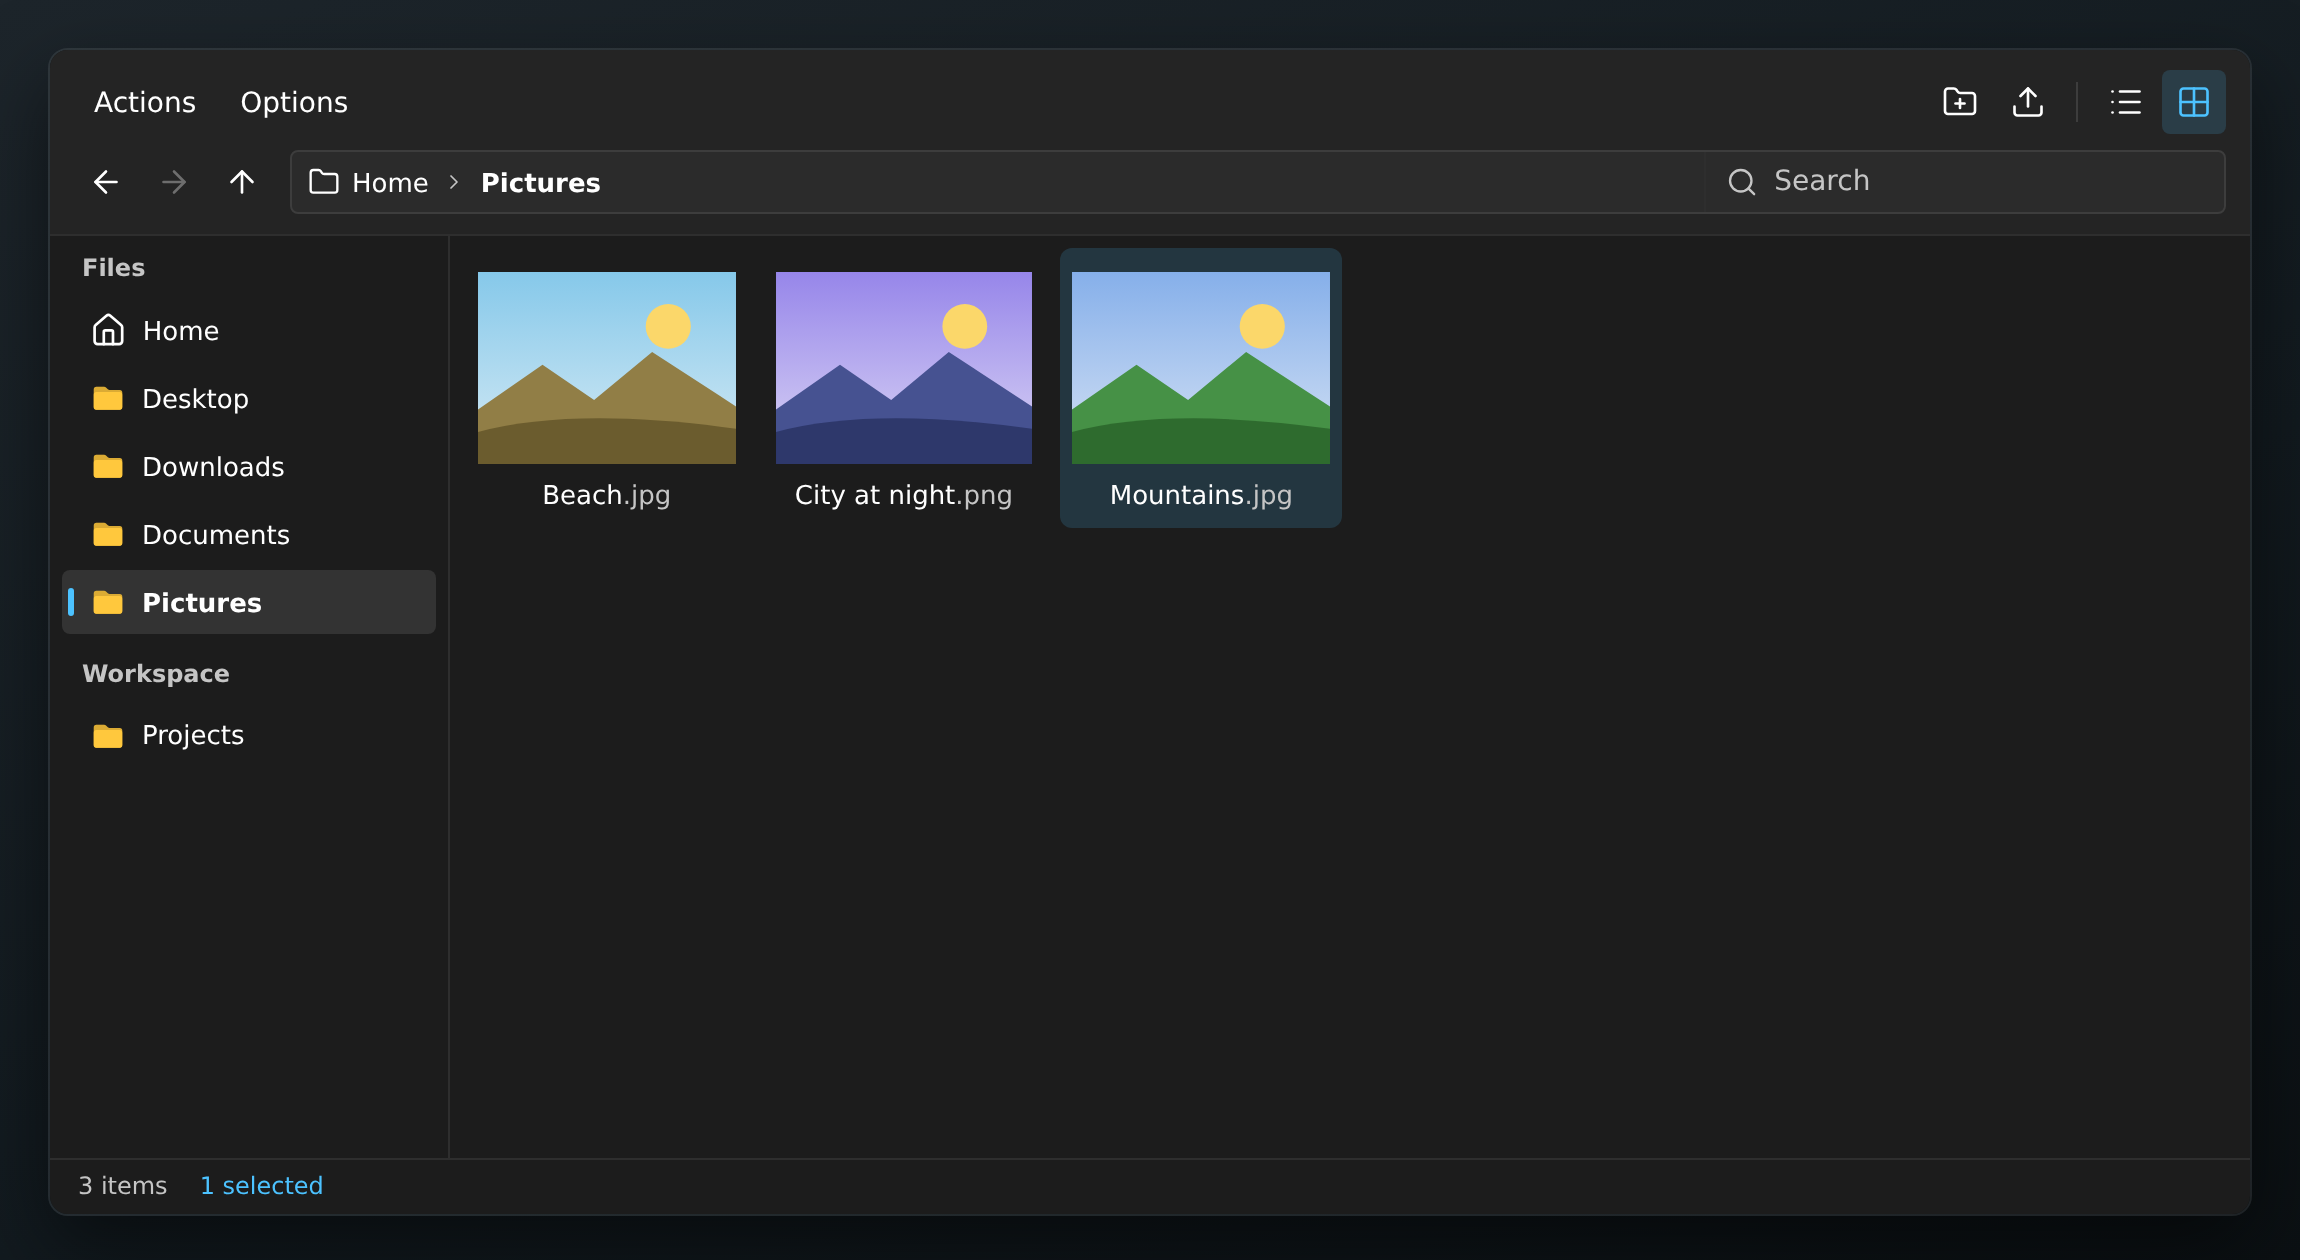
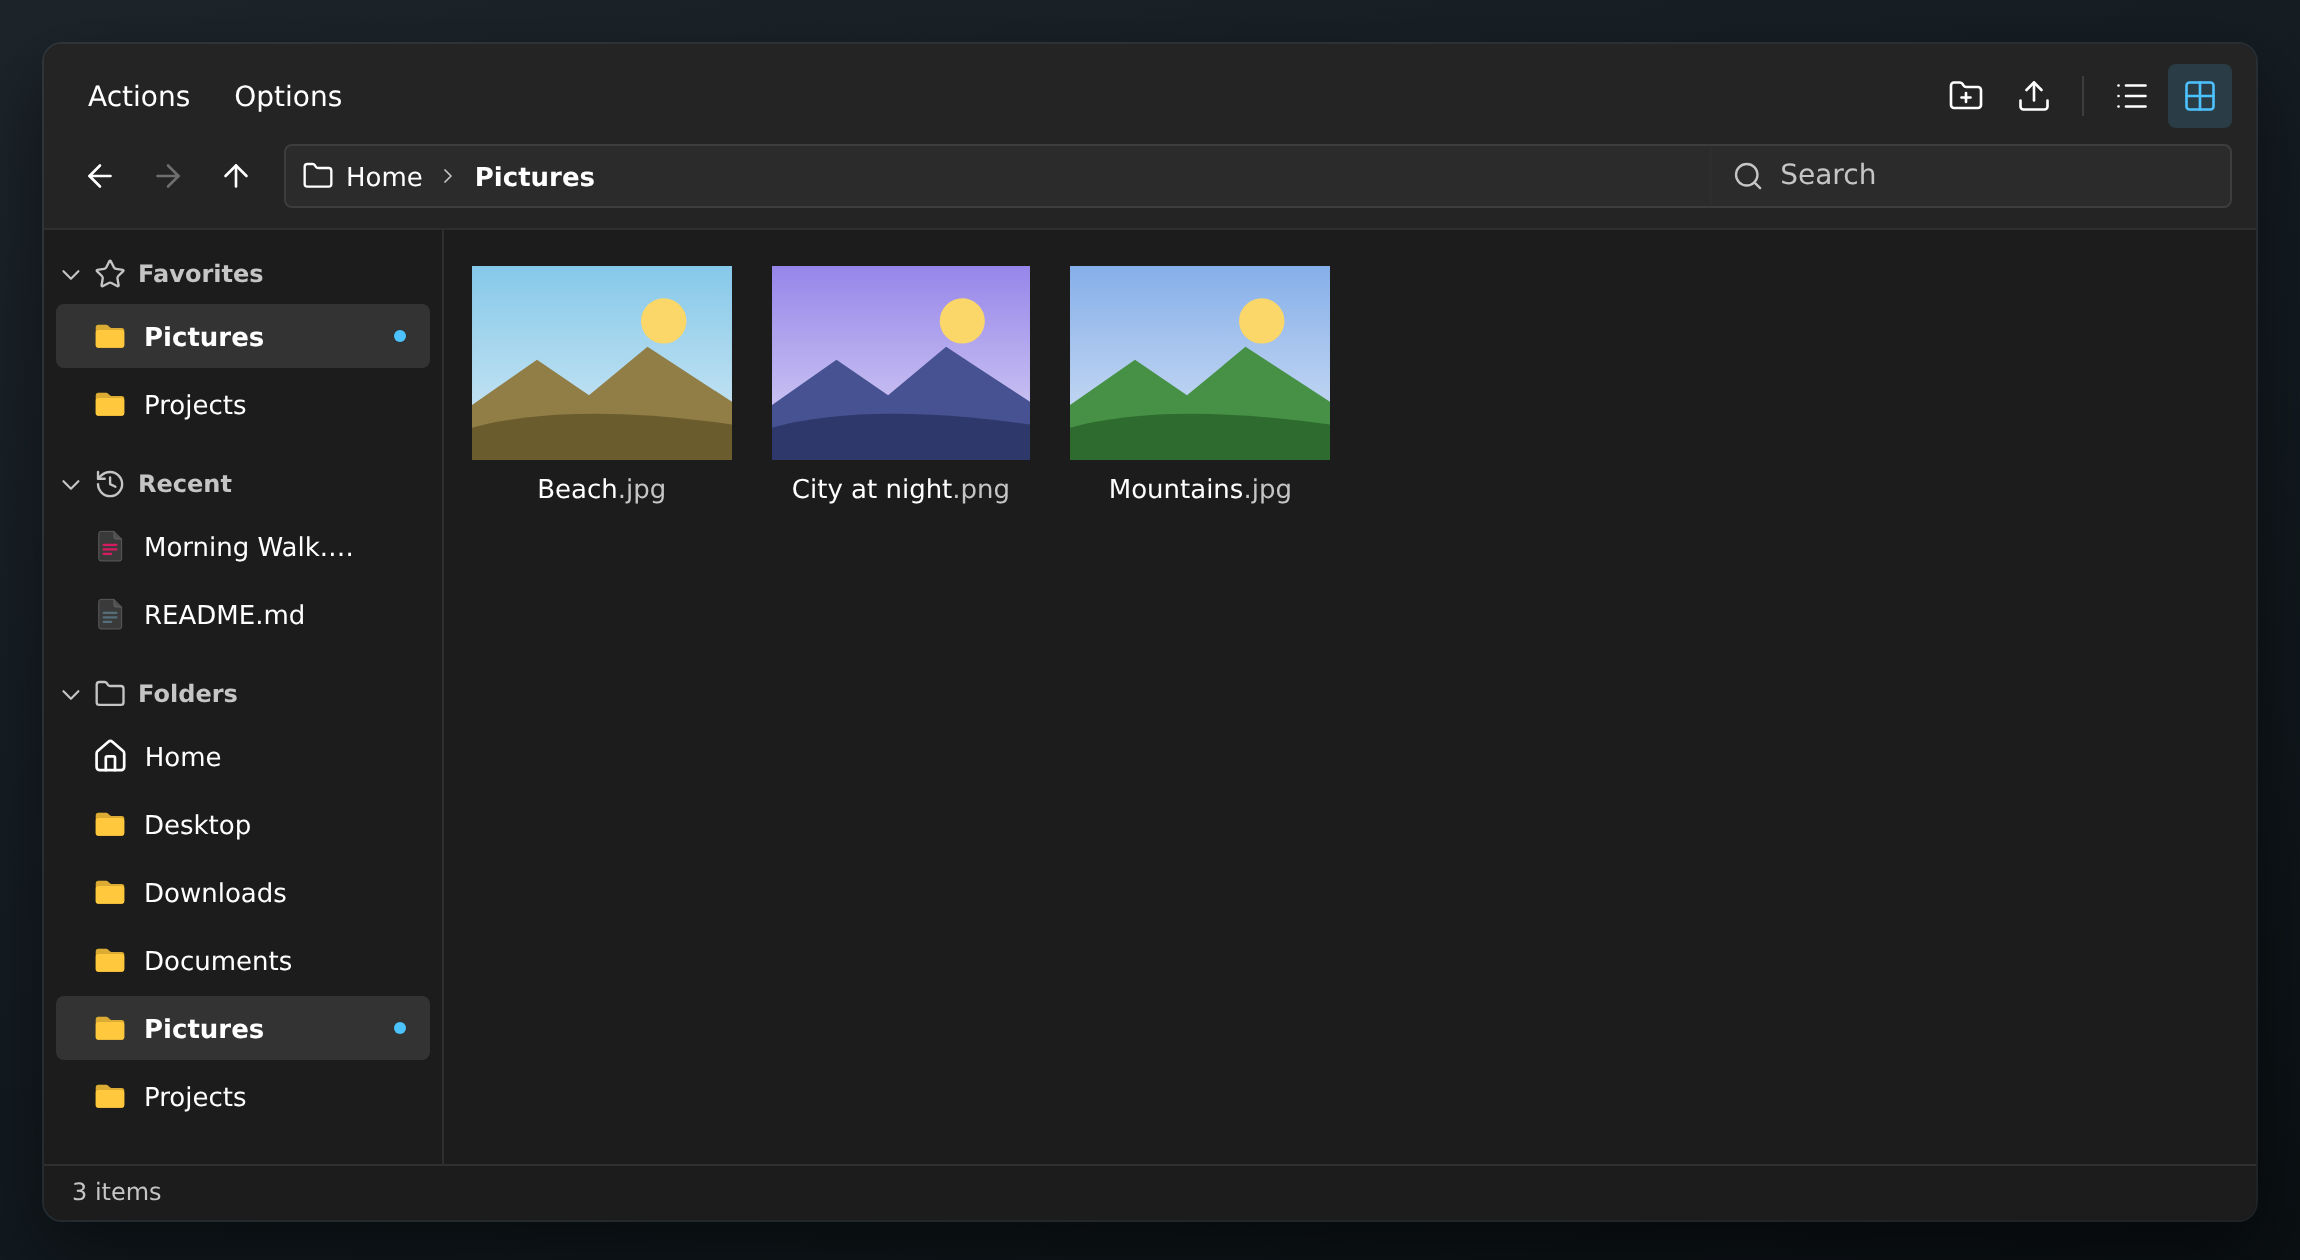
update previews, the commit rules and the mobile issue
New light and dark previews with Favorites and Recent, and a phone
preview with the sidebar drawer. CLAUDE.md now has every commit of
published code bump the version, and the mobile issue only keeps
what is left after 7.2.0.

diff --git a/issues/mobile-responsive.md b/issues/mobile-responsive.md
@@ -1,50 +1,24 @@
-# Make the file browser usable on phones
+# Touch interactions on phones and tablets
 
-**Status:** phase 1 done, phase 2 open
-**Estimate:** 4–6 days in total (layout only: 1–2 days)
+**Status:** open
+**Estimate:** 2–3 days
 
 ## Goal
 
-The browser should look clean and be comfortable to use on a phone (≈360–480px wide, touch input). Today the layout shrinks somewhat, but most interactions still assume a mouse and keyboard.
-
-## What already exists
-
-- A mobile breakpoint at 480px that lowers font size and control height (`src/styles/chonky.css`, `@media (max-width: 480px)`).
-- `useIsMobileBreakpoint()` in `src/util/styles.ts`. `GridContainer` uses it to change the column count and gutter.
-- List view hides the Type and Date columns below 600px.
-- The sidebar is hidden when the `chonky` container is narrower than 560px (`@container chonky (max-width: 560px)`).
-- The toolbar wraps onto several lines when space runs out.
+Phase 1 shipped in 7.2.0: the sidebar drawer, tap to open, long press for the context menu, the "More" toolbar menu, touch-sized targets and hover only with a mouse. What is left are the interactions that still need a mouse or a keyboard.
 
 ## Problems
 
-1. **The sidebar cannot be reached.** Below 560px it gets `display: none`, and nothing else opens it.
-2. **Opening files needs a double tap.** `useClickHandler` (`src/components/internal/ClickableWrapper-hooks.tsx`) turns a single click into selection and a double click into opening. On touch, people expect one tap to open.
-3. **No context menu on iOS.** The menu opens on `contextmenu`, and iOS Safari does not fire that event for a long press.
-4. **Drag and drop does not work on touch.** `FileBrowser` only uses `HTML5Backend`.
-5. **Multi-select needs Ctrl or Shift.** A touch screen has neither.
-6. **Some controls only appear on hover.** For example, the sidebar item remove button (`.chonky-sidebarRemovableItem:hover > .chonky-sidebarItemRemove`). On touch, hover styles also get stuck after a tap.
-7. **The toolbar and navbar get crowded.** On narrow widths the menu bar, buttons, search and breadcrumbs wrap into several rows and take up too much vertical space.
-8. **Tap targets are small.** At the 480px breakpoint, `--chonky-control-height` is 30px, below the usual ~40–44px minimum for touch.
+1. **Multi-select needs Ctrl or Shift.** A touch screen has neither, so only one file can be selected (with a long press).
+2. **Drag and drop does not work on touch.** `FileBrowser` only uses `HTML5Backend`. On Android Chrome a long press on a draggable file may also start a native drag, which has not been tested next to the long-press context menu.
 
 ## Proposed work
 
-### Phase 1: layout and core touch behaviour (priority)
-
-- [x] **Sidebar drawer:** on narrow containers, render the sidebar as an overlay drawer instead of hiding it. Add a toggle button to the navbar or toolbar. Close the drawer on backdrop tap, on Escape, and after choosing an item.
-- [x] **Tap to open:** when the input is touch (`pointerType === 'touch'` or `(pointer: coarse)`), a single tap opens the file. Keep the current behaviour for mouse.
-- [x] **Long press:** a long press of about 500ms on a file opens the context menu and selects the file. Cancel it if the finger moves.
-- [x] **Hover-only UI:** wrap `:hover` styles in `@media (hover: hover)`. Keep hover-only controls (such as the sidebar item remove button) always visible when `(hover: none)`.
-- [x] **Compact toolbar:** below the mobile breakpoint, keep search and the most important buttons visible and move the rest into an overflow ("⋯") menu. Let the breadcrumbs scroll horizontally or collapse the middle folders.
-- [x] **Tap targets:** raise the control and row height for `(pointer: coarse)` rather than lowering them.
-
-### Phase 2: advanced touch interactions
-
-- [ ] **Selection mode:** a long press enters selection mode (or it becomes a context menu action). In selection mode, a tap toggles a file and a bar shows the count, Select all and Cancel.
+- [ ] **Selection mode:** a long press enters selection mode (or it becomes a context menu action). In selection mode, a tap toggles a file and a bar shows the count, Select all and Cancel. The tap-to-open in `useClickHandler` (`src/components/internal/ClickableWrapper-hooks.tsx`) has to toggle instead while the mode is on.
 - [ ] **Drag and drop on touch:** either add `TouchBackend` (or `react-dnd-multi-backend`) for touch devices, or turn DnD off on touch and rely on Move/Copy actions in the context menu. Decide which one first.
 
 ## Notes
 
-- Base layout decisions on the container width (`@container chonky`), not only on the viewport. The browser is often embedded in a smaller panel.
-- `useIsMobileBreakpoint` currently checks the viewport. Consider a container-based hook, or keep the logic in CSS where possible.
-- Test on a real iOS Safari and Android Chrome device, not only in desktop devtools emulation. Long press, `contextmenu` and hover behave differently there.
-- These changes reach npm, so each one needs a CHANGELOG entry. Changing tap-to-open on touch alters existing behaviour: consider putting it behind an option, or call it out clearly under `Changed`.
+- The long press lives in `useContextMenuTrigger` (`src/components/external/FileContextMenu-hooks.ts`); selection mode should start from the same timer rather than a second one.
+- Narrow layout is `NARROW_LAYOUT_WIDTH` (560px) in `src/util/styles.ts`, provided by `ChonkyNarrowLayoutContext`; touch is `useIsCoarsePointer()`.
+- Phase 1 was only tested in Chrome's mobile emulation. Test on a real iOS Safari and Android Chrome device, together with this work.

diff --git a/CLAUDE.md b/CLAUDE.md
@@ -2,12 +2,12 @@
 
 ## Versioning and changelog
 
-The package follows [Semantic Versioning](https://semver.org/). Versions track what consumers get from npm, not individual commits.
+The package follows [Semantic Versioning](https://semver.org/).
 
-- Every change to published code (`src/`, build config, `package.json` fields that affect consumers) gets an entry in `CHANGELOG.md` under `## [Unreleased]`, in the matching group: `Added`, `Changed`, `Fixed`, `Removed`, or `Breaking`.
-- Changes that do not reach npm (playground, CI, docs) go under `Development` and do not require a version bump on their own.
-- When a release is cut, bump `version` in `package.json` and rename `[Unreleased]` to the new version:
+- Every commit that changes published code (`src/`, build config, `package.json` fields that affect consumers) bumps `version` in `package.json` in that same commit, without being asked, by the kind of change:
   - **patch** (6.5.x): bug fixes, no API change.
   - **minor** (6.x.0): new features or props, backward compatible.
   - **major** (x.0.0): anything that breaks existing consumers, such as removed props, new required peer dependencies, or a raised minimum React/MUI version.
-- The version bump and changelog edit belong in the same commit as the change that triggers the release, or in a dedicated release commit when several changes ship together.
+  - A commit with several kinds of change takes the largest bump.
+- The commit's `CHANGELOG.md` entries go under a heading for the new version (`## [x.y.z]`), in the matching group: `Added`, `Changed`, `Fixed`, `Removed`, or `Breaking`. `## [Unreleased]` stays at the top, empty of published changes.
+- Changes that do not reach npm (playground, CI, docs, website) do not bump the version. They go under `Development` in `## [Unreleased]`, and move into the next version's section when that version is written.

diff --git a/README.md b/README.md
@@ -29,11 +29,15 @@ opens, moves, renames, uploads or deletes something. That makes it fit any stora
 it is a REST API, S3, Firebase, a CMS media library or data in memory.
 
 <p align="center">
-    <img src="./images/preview-light.png" alt="Chonky2 in light mode: a sidebar with folders, and the Home folder in list view" width="800" />
+    <img src="./images/preview-light.png" alt="Chonky2 in light mode: a sidebar with Favorites, Recent and Folders, and the Home folder in list view" width="800" />
 </p>
 
 <p align="center">
     <img src="./images/preview-dark.png" alt="Chonky2 in dark mode: the Pictures folder in grid view with image thumbnails" width="800" />
+</p>
+
+<p align="center">
+    <img src="./images/preview-mobile.png" alt="Chonky2 on a phone: the list view, and the sidebar open as a drawer" width="800" />
 </p>
 
 ## Contents

diff --git a/CHANGELOG.md b/CHANGELOG.md
@@ -5,6 +5,12 @@ The project follows [Semantic Versioning](https://semver.org/).
 
 ## [Unreleased]
 
+### Development
+
+- `CLAUDE.md`: every commit that changes published code bumps the version and writes its changelog entries under that version.
+- `issues/mobile-responsive.md` lists only what is left after 7.2.0: multi-select and drag and drop on touch screens.
+- README: new light and dark previews with Favorites and Recent, and a preview on a phone.
+
 ## [7.2.0]
 
 ### Added
